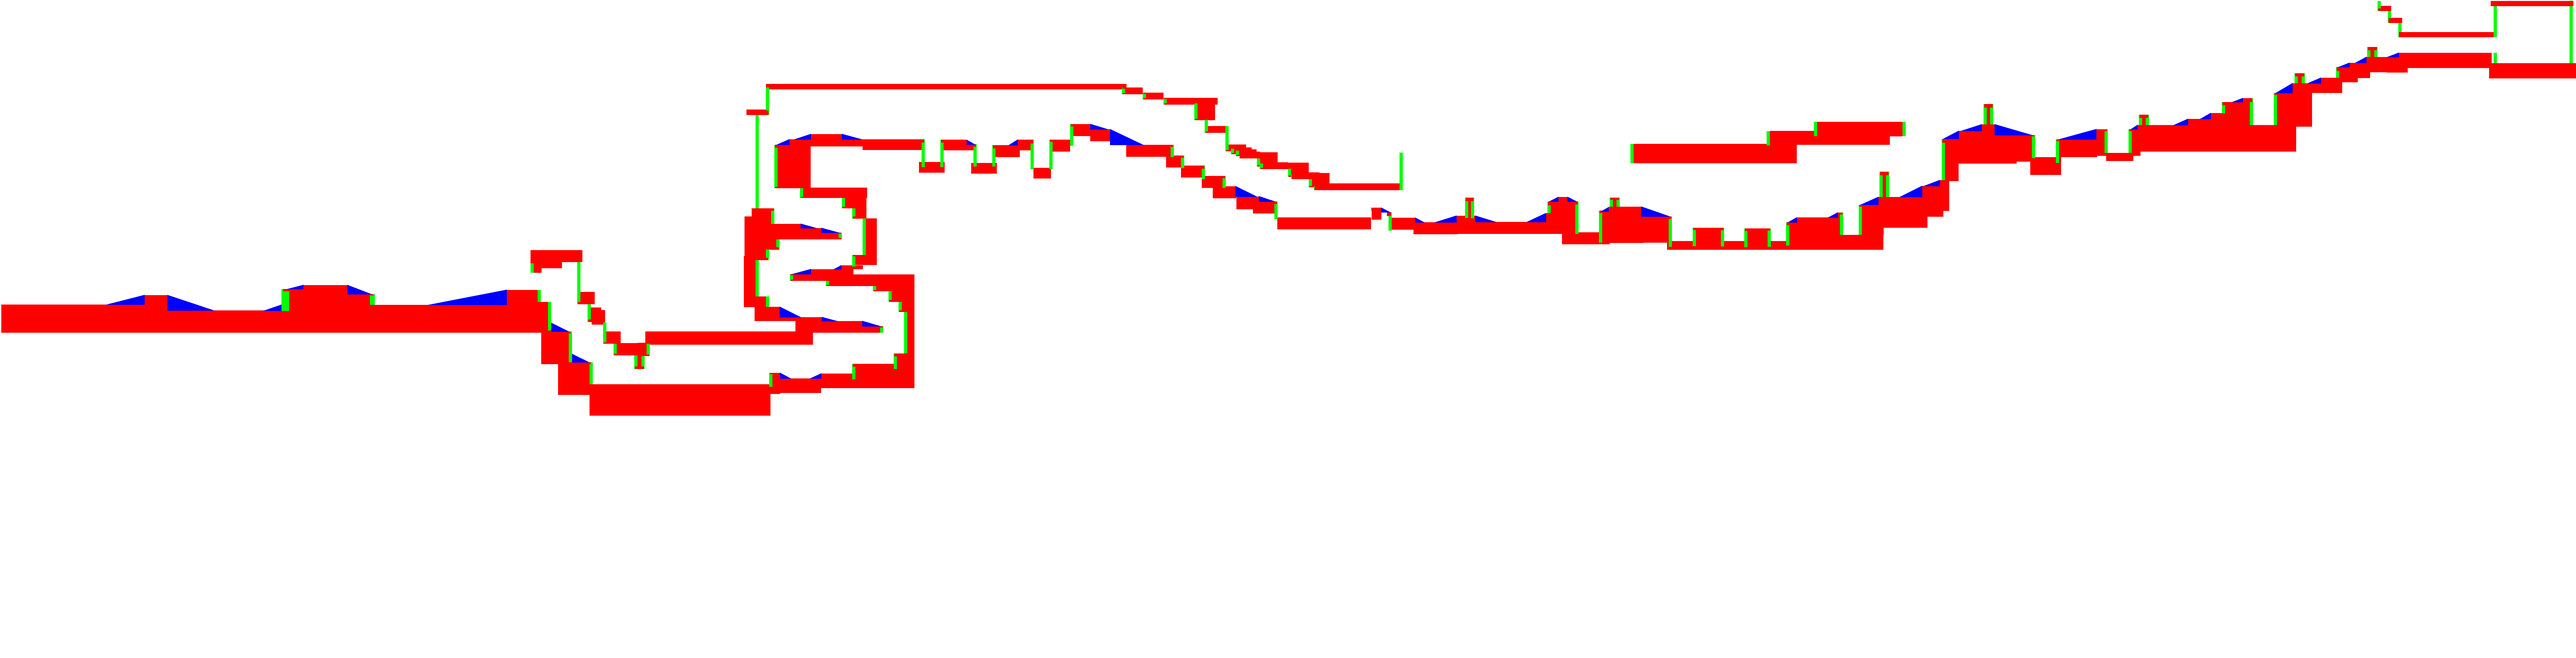
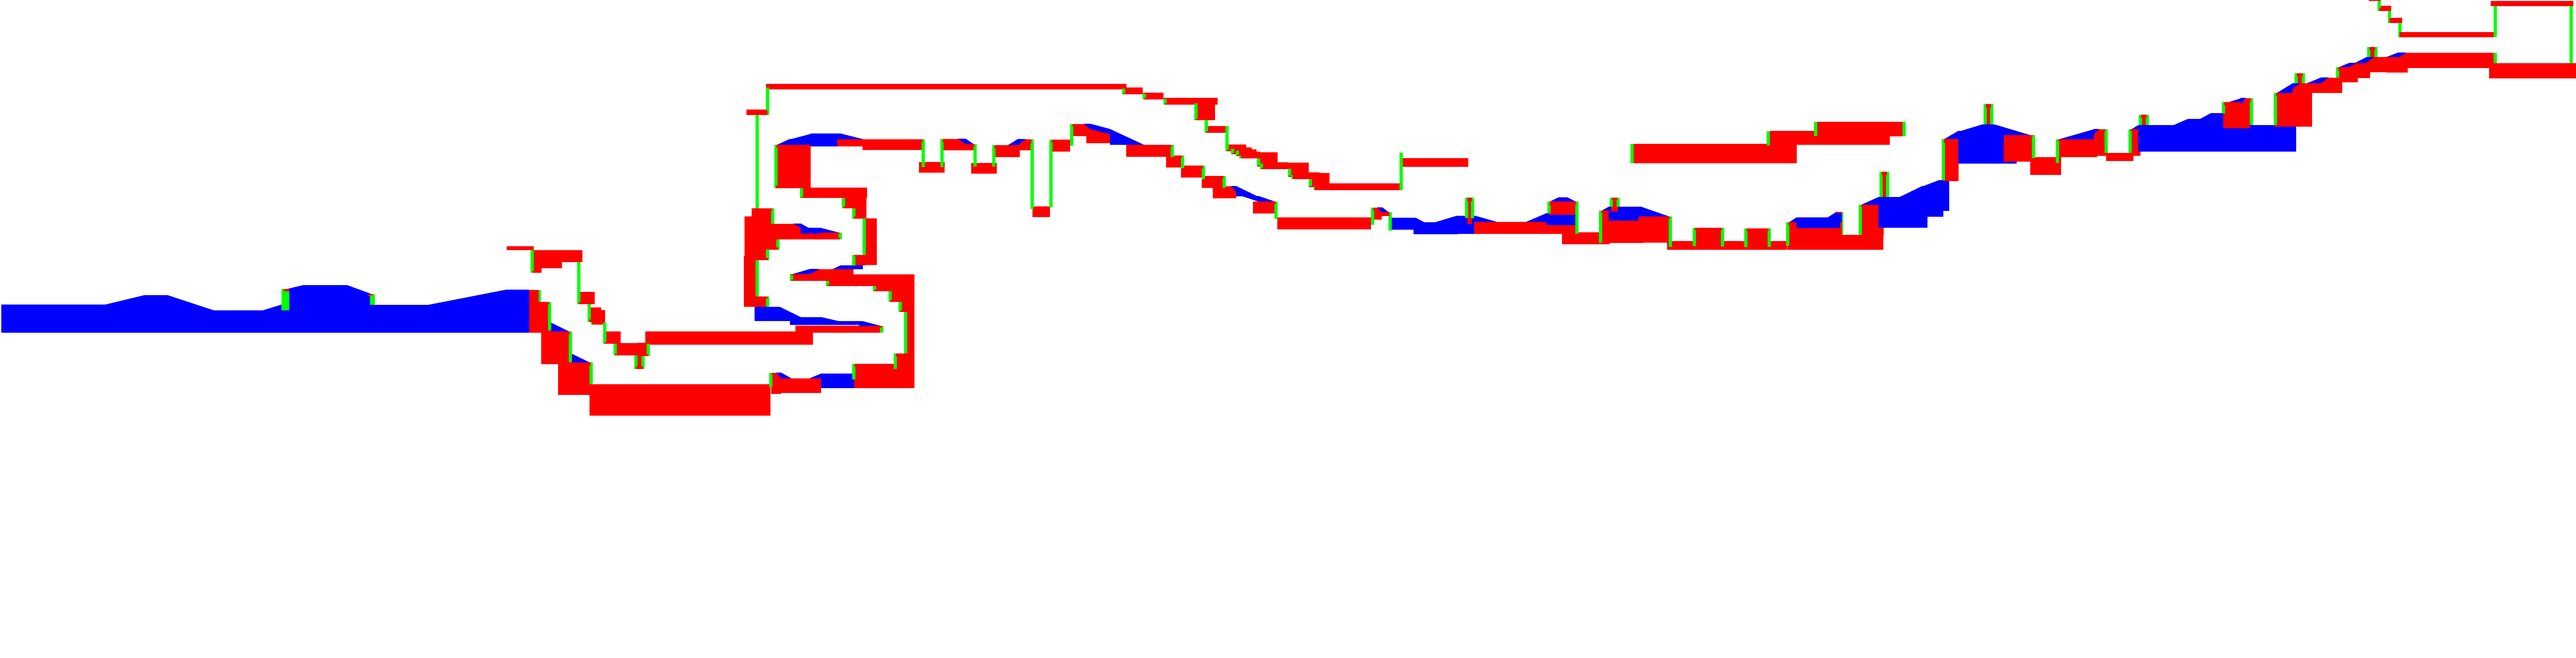
충돌처리 구간 추가 -> 10곳 / 맵 지형 수정 (이제 안끼이고 단차없음) / 적 유닛 리소스

diff --git a/MegamanX/Scenes/SceneGame.cpp b/MegamanX/Scenes/SceneGame.cpp
@@ -64,6 +64,11 @@ void SceneGame::Init()
 
 	worldView.setSize({ 1920 / 3, 1080 / 3 });
 	backgroundView.setSize({ 1920 /3 ,1080 /3 });
+
+	sf::RectangleShape pillar(sf::Vector2f(200, 600));
+	pillar.setPosition(0, 200);
+	pillar.setFillColor(sf::Color::Red);
+
 }
 
 void SceneGame::Release()
@@ -130,9 +135,9 @@ void SceneGame::Draw(sf::RenderWindow& window)
 	Scene::Draw(window);
 }
 
-sf::Vector2f SceneGame::PlayerBoundsWorldToLocal(sf::Vector2f playerBoundsPos)
+sf::Vector2f SceneGame::PlayerBoundsWorldToMapLocal(sf::Vector2f playerBoundsPos)
 {
-	sf::Vector2f imageWorldPos = collisionMapSprite.getPosition();
+	//sf::Vector2f imageWorldPos = collisionMapSprite.getPosition();
 	sf::Transform worldToLocal = collisionMapSprite.getInverseTransform();
 	sf::Vector2f boundingBoxLocalPos = worldToLocal.transformPoint(playerBoundsPos);
 

diff --git a/MegamanX/Enemy/Stump.h b/MegamanX/Enemy/Stump.h
@@ -1,0 +1,26 @@
+#pragma once
+#include "SpriteGo.h"
+class SceneGame;
+
+class Stump : public SpriteGo
+{
+protected:
+	SceneGame* sceneGame = nullptr;
+	Animator stumpAnimation;
+	sf::FloatRect stumpBounds;
+
+	sf::Color collisionColor = { 255 , 0 , 0 }; 
+	sf::Color sideCollisionColor = { 0 , 255 , 0 }; 
+
+public:
+
+
+	Stump(const std::string& name = "");
+	~Stump() override = default;
+
+	void Init() override;
+	void Reset() override;
+	void Update(float dt) override;
+
+};
+

diff --git a/MegamanX/Scenes/SceneGame.h b/MegamanX/Scenes/SceneGame.h
@@ -49,7 +49,7 @@ public:
 
 	void Draw(sf::RenderWindow& window);
 
-	sf::Vector2f PlayerBoundsWorldToLocal(sf::Vector2f playerBounds);
+	sf::Vector2f PlayerBoundsWorldToMapLocal(sf::Vector2f playerBounds);
 
 };
 

diff --git a/MegamanX/Enemy/Stump.cpp b/MegamanX/Enemy/Stump.cpp
@@ -1,0 +1,18 @@
+#include "pch.h"
+#include "Stump.h"
+
+Stump::Stump(const std::string& name)
+{
+}
+
+void Stump::Init()
+{
+}
+
+void Stump::Reset()
+{
+}
+
+void Stump::Update(float dt)
+{
+}

diff --git a/MegamanX/Enemy/Enemy.h b/MegamanX/Enemy/Enemy.h
@@ -1,0 +1,7 @@
+#pragma once
+#include "SpriteGo.h"
+class Enemy :
+    public SpriteGo
+{
+};
+

diff --git a/MegamanX/Enemy/Enemy.cpp b/MegamanX/Enemy/Enemy.cpp
@@ -1,0 +1,2 @@
+#include "pch.h"
+#include "Enemy.h"
